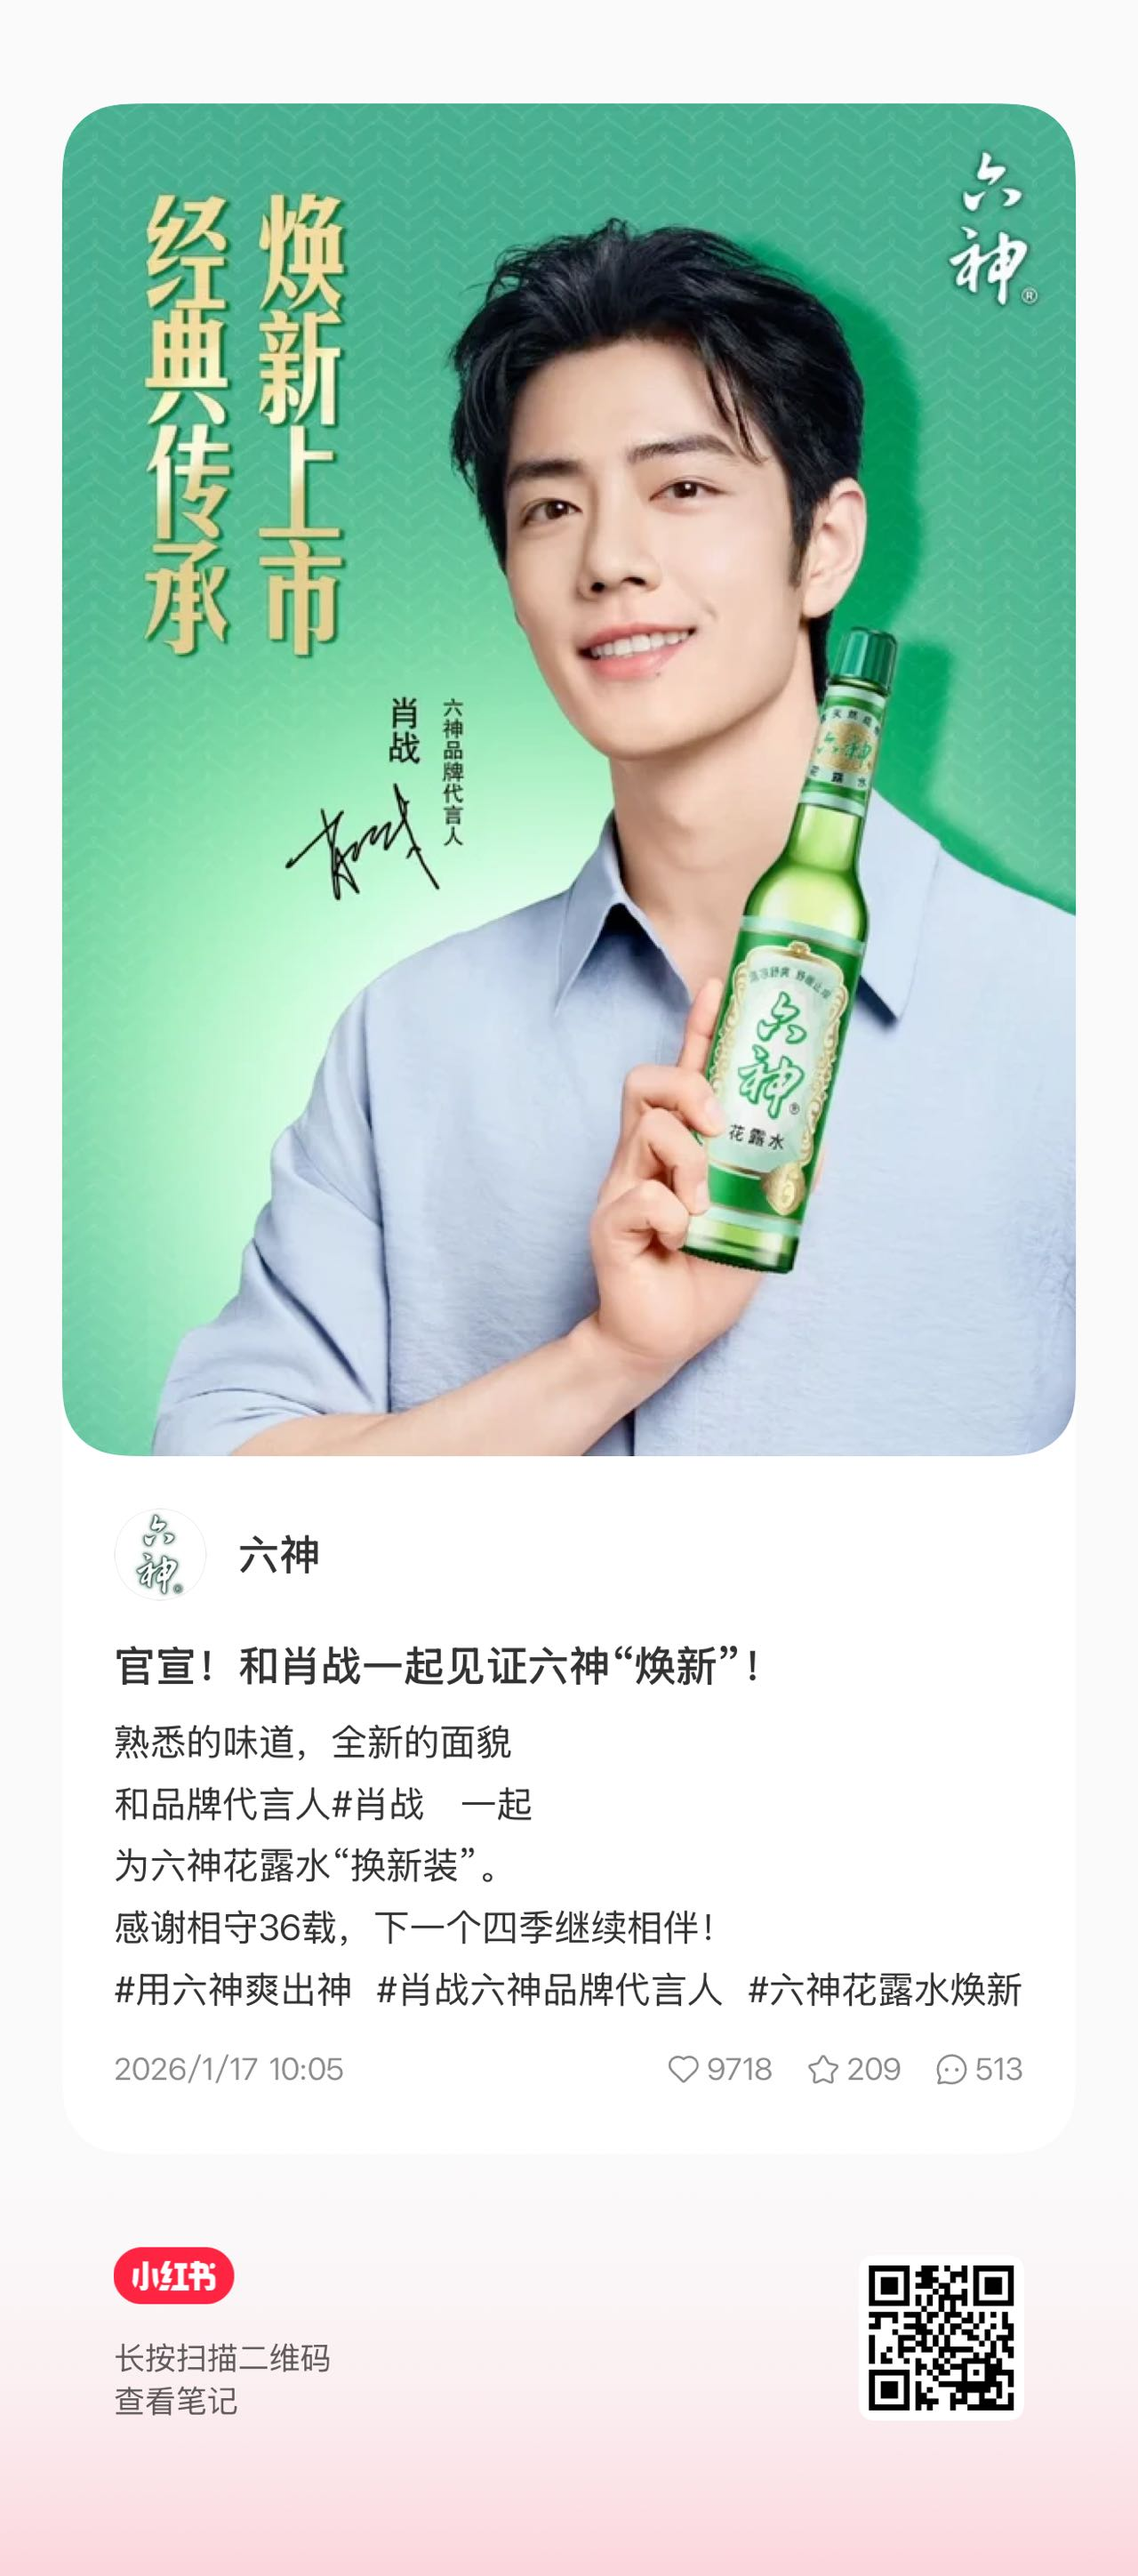
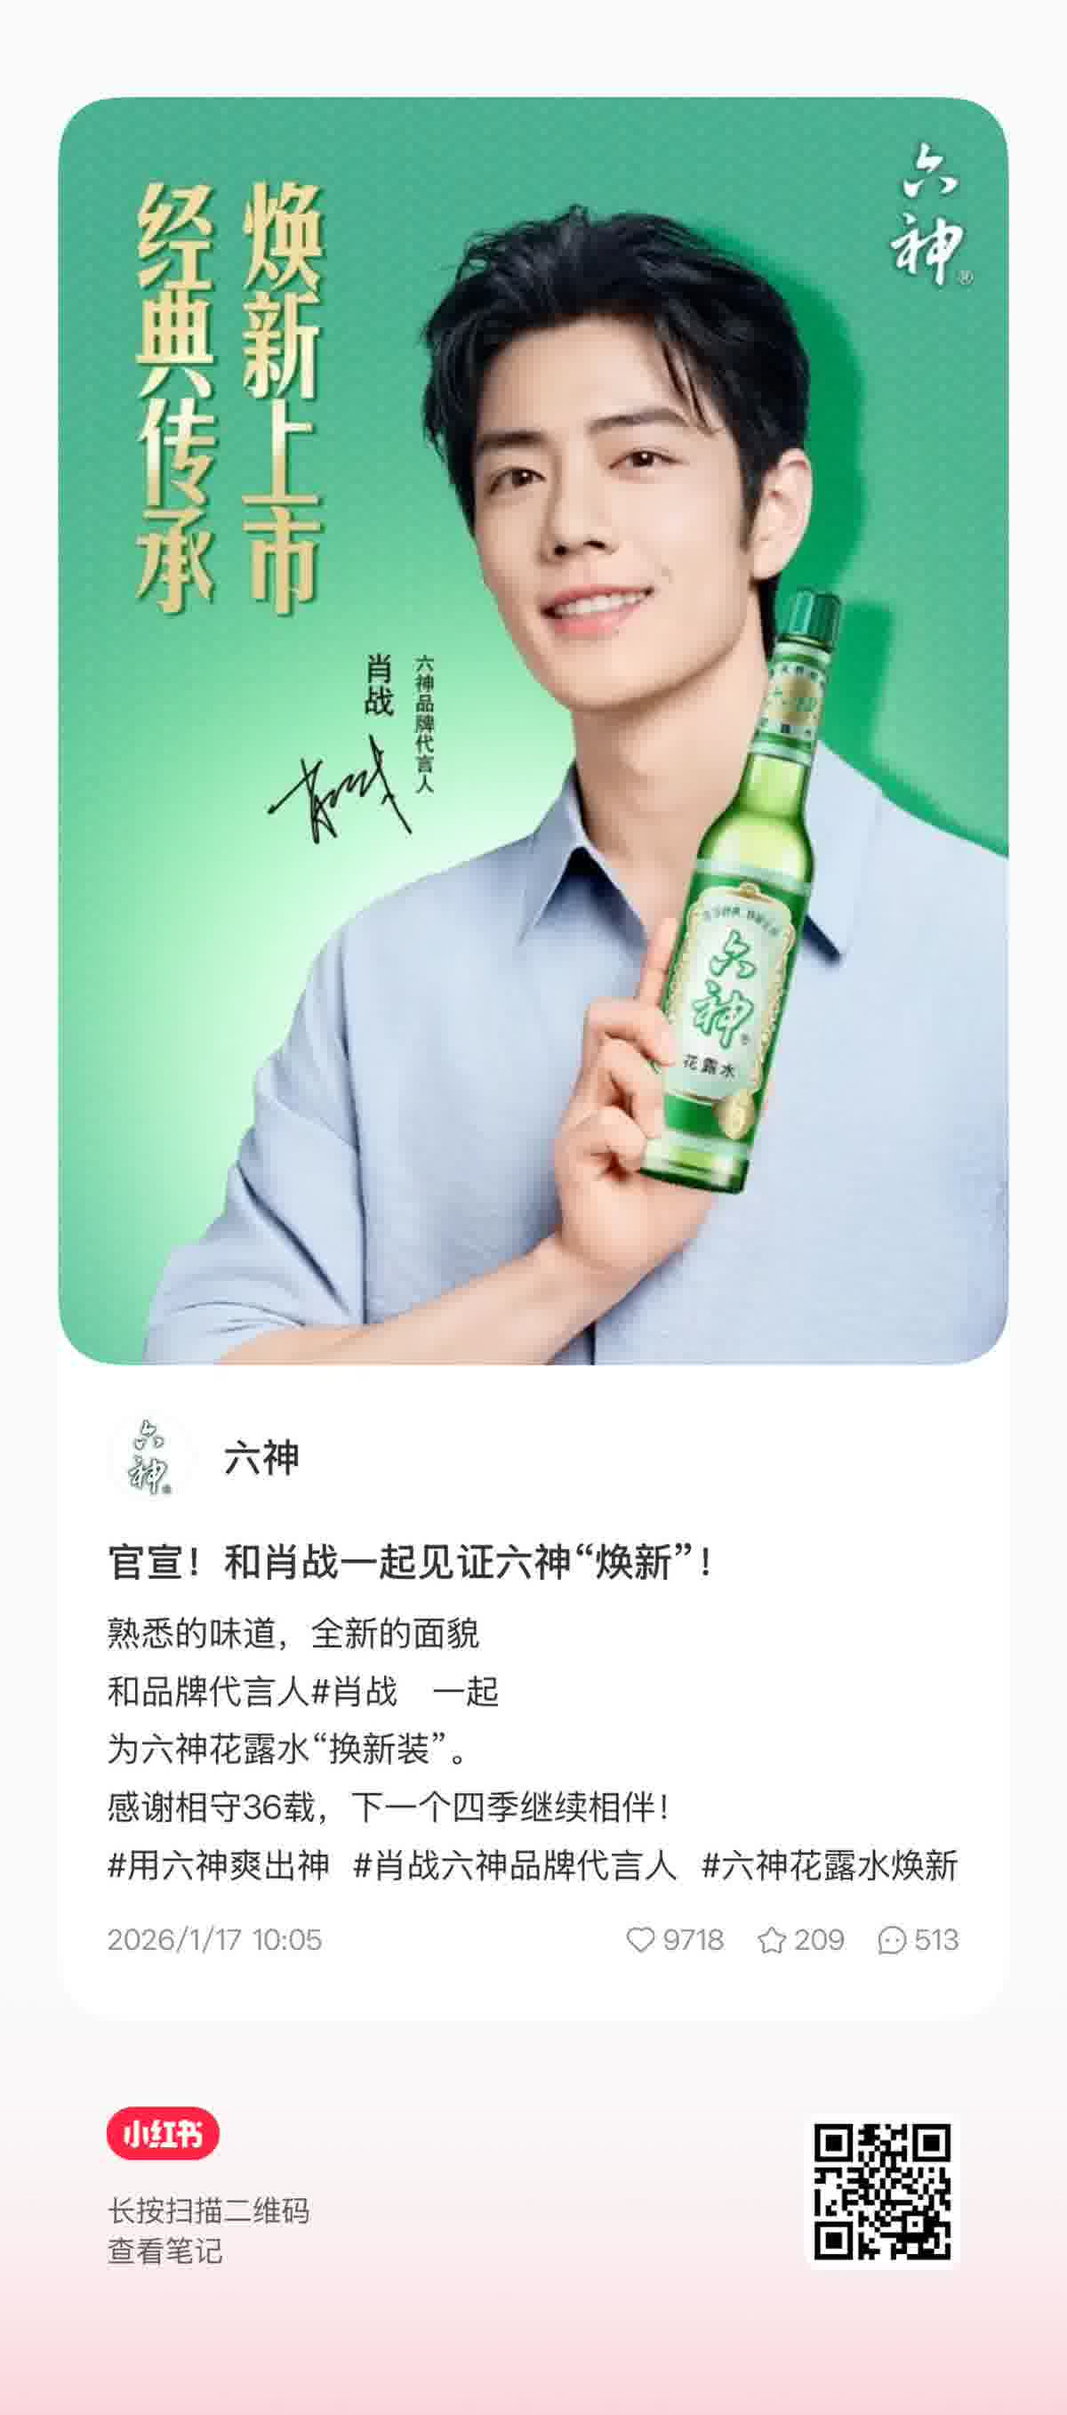
perf: compress liushen page images 34MB -> 1.6MB

diff --git a/projects/liushen-brand-content.html b/projects/liushen-brand-content.html
@@ -125,7 +125,7 @@
             <figure class="liushen-tian-video-card">
               <figcaption><b>田嘉瑞 GWP 创意视频</b><span>创意脚本 / 30S</span></figcaption>
               <div class="liushen-tian-video-row">
-                <video src="/projects/brand-film-direction/liushen-videos/liushen-tianjiarui-gwpv3.m4v#t=0.5" poster="/projects/brand-film-direction/script-previews/gwp/slide-03.png" controls preload="none" playsinline></video>
+                <video src="/projects/brand-film-direction/liushen-videos/liushen-tianjiarui-gwpv3.m4v#t=0.5" poster="/projects/brand-film-direction/script-previews/gwp/slide-03.jpg" controls preload="none" playsinline></video>
                 <div class="liushen-tian-notes">
                   <span>GWP花式露出</span>
                   <span>可爱动画风格搭配多场景转换</span>
@@ -136,7 +136,7 @@
             <figure class="liushen-tian-video-card">
               <figcaption><b>田嘉瑞官宣预热</b><span>新品官宣 / 悬念预热</span></figcaption>
               <div class="liushen-tian-video-row">
-                <video src="/projects/brand-film-direction/liushen-videos/liushen-preheat-op1v11a.m4v#t=0.5" poster="/projects/brand-film-direction/script-previews/preheat/slide-01.png" controls preload="none" playsinline></video>
+                <video src="/projects/brand-film-direction/liushen-videos/liushen-preheat-op1v11a.m4v#t=0.5" poster="/projects/brand-film-direction/script-previews/preheat/slide-01.jpg" controls preload="none" playsinline></video>
                 <div class="liushen-tian-notes">
                   <span>花絮素材二创</span>
                   <span>针对粉丝人群定制视频风格</span>
@@ -152,8 +152,8 @@
                 <small>脚本展示</small>
               </div>
               <div class="liushen-script-slides two">
-                <figure><img src="/projects/brand-film-direction/script-previews/gwp/slide-01.png" alt="田嘉瑞 GWP 创意视频脚本第一页"></figure>
-                <figure><img src="/projects/brand-film-direction/script-previews/gwp/slide-02.png" alt="田嘉瑞 GWP 创意视频脚本第二页"></figure>
+                <figure><img src="/projects/brand-film-direction/script-previews/gwp/slide-01.jpg" alt="田嘉瑞 GWP 创意视频脚本第一页"></figure>
+                <figure><img src="/projects/brand-film-direction/script-previews/gwp/slide-02.jpg" alt="田嘉瑞 GWP 创意视频脚本第二页"></figure>
               </div>
             </div>
           </div>
@@ -173,17 +173,17 @@
           </div>
           <div class="liushen-combo-videos three">
             <figure>
-              <video src="/projects/brand-film-direction/liushen-videos/liushen-added-04.mp4#t=0.5" poster="/projects/brand-film-direction/social-data/gwp-launch.png" controls preload="none" playsinline></video>
+              <video src="/projects/brand-film-direction/liushen-videos/liushen-added-04.mp4#t=0.5" poster="/projects/brand-film-direction/social-data/gwp-launch.jpg" controls preload="none" playsinline></video>
               <figcaption><b>肖战官宣焕新</b><span>小红书官宣内容 / 2026.01.17</span></figcaption>
               <div class="liushen-metrics"><span><b>1.4万</b>点赞</span><span><b>441</b>收藏</span><span><b>760</b>评论</span></div>
             </figure>
             <figure>
-              <video src="/projects/brand-film-direction/liushen-videos/liushen-work-new.mp4#t=0.5" poster="/projects/brand-film-direction/video-posters/liushen-work-new-poster.png" controls preload="none" playsinline></video>
+              <video src="/projects/brand-film-direction/liushen-videos/liushen-work-new.mp4#t=0.5" poster="/projects/brand-film-direction/video-posters/liushen-work-new-poster.jpg" controls preload="none" playsinline></video>
               <figcaption><b>肖战 GWP 周边首发</b><span>小红书首发 / 2026.04.09</span></figcaption>
               <div class="liushen-metrics"><span><b>1.2万</b>点赞</span><span><b>796</b>收藏</span><span><b>1184</b>评论</span></div>
             </figure>
             <figure>
-              <video src="/projects/brand-film-direction/liushen-videos/liushen-work-02.mp4#t=0.5" poster="/projects/brand-film-direction/social-data/nfc-night-light.png" controls preload="none" playsinline></video>
+              <video src="/projects/brand-film-direction/liushen-videos/liushen-work-02.mp4#t=0.5" poster="/projects/brand-film-direction/social-data/nfc-night-light.jpg" controls preload="none" playsinline></video>
               <figcaption><b>NFC 语音小夜灯</b><span>小红书互动内容 / 2026.04.09</span></figcaption>
               <div class="liushen-metrics"><span><b>1.1万</b>点赞</span><span><b>579</b>收藏</span><span><b>636</b>评论</span></div>
             </figure>
@@ -204,21 +204,21 @@
           </div>
           <div class="liushen-combo-videos liushen-offline-layout">
             <figure class="liushen-offline-primary">
-              <video src="/projects/brand-film-direction/liushen-videos/liushen-work-04.mp4#t=0.5" poster="/projects/brand-film-direction/video-posters/liushen-work-04-poster.png" controls preload="none" playsinline></video>
+              <video src="/projects/brand-film-direction/liushen-videos/liushen-work-04.mp4#t=0.5" poster="/projects/brand-film-direction/video-posters/liushen-work-04-poster.jpg" controls preload="none" playsinline></video>
               <figcaption><b>百米刷屏 N 个他</b><span>线下大屏传播 / 2026.04.10</span></figcaption>
               <div class="liushen-metrics"><span><b>6943</b>点赞</span><span><b>252</b>收藏</span><span><b>429</b>评论</span></div>
             </figure>
             <div class="liushen-offline-side">
               <figure class="liushen-offline-item">
                 <div class="liushen-video-copy">
-                  <video src="/projects/brand-film-direction/liushen-videos/liushen-work-03.mp4#t=0.5" poster="/projects/brand-film-direction/video-posters/liushen-work-03-poster.png" controls preload="none" playsinline></video>
+                  <video src="/projects/brand-film-direction/liushen-videos/liushen-work-03.mp4#t=0.5" poster="/projects/brand-film-direction/video-posters/liushen-work-03-poster.jpg" controls preload="none" playsinline></video>
                   <figcaption><b>清爽风暴席卷 25 城</b><span>全国 25 城屏幕传播 / 2026.04.11</span></figcaption>
                 </div>
                 <div class="liushen-metrics liushen-side-metrics"><span><b>6597</b>点赞</span><span><b>267</b>收藏</span><span><b>357</b>评论</span></div>
               </figure>
               <figure class="liushen-offline-item liushen-offline-item-raised">
                 <div class="liushen-video-copy">
-                  <video src="/projects/brand-film-direction/liushen-videos/liushen-work-05.mp4#t=0.5" poster="/projects/brand-film-direction/video-posters/liushen-work-05-poster.png" controls preload="none" playsinline></video>
+                  <video src="/projects/brand-film-direction/liushen-videos/liushen-work-05.mp4#t=0.5" poster="/projects/brand-film-direction/video-posters/liushen-work-05-poster.jpg" controls preload="none" playsinline></video>
                   <figcaption><b>动态环绕，百步联屏</b><span>沉浸式感官风暴 / 2026.04.16</span></figcaption>
                 </div>
                 <div class="liushen-metrics liushen-side-metrics"><span><b>5702</b>点赞</span><span><b>275</b>收藏</span><span><b>484</b>评论</span></div>
@@ -241,16 +241,16 @@
           </div>
           <div class="liushen-product-layout">
             <figure class="liushen-product-video-frame">
-              <video src="/projects/brand-film-direction/liushen-videos/liushen-work-01.mp4#t=0.5" poster="/projects/brand-film-direction/script-previews/shower-gel/slide-03.png" controls preload="none" playsinline></video>
+              <video src="/projects/brand-film-direction/liushen-videos/liushen-work-01.mp4#t=0.5" poster="/projects/brand-film-direction/script-previews/shower-gel/slide-03.jpg" controls preload="none" playsinline></video>
               <figcaption><b>清爽香氛沐浴露升级</b><span>小红书产品内容 / 2026.03.26</span></figcaption>
               <div class="liushen-metrics liushen-video-result"><span><b>284</b>点赞</span><span><b>24</b>收藏</span><span><b>25</b>评论</span></div>
             </figure>
             <div class="liushen-inline-script liushen-product-script">
               <div class="liushen-product-script-label"><b>脚本展示</b></div>
               <div class="liushen-script-slides is-lowres">
-                <figure><img src="/projects/brand-film-direction/script-previews/shower-gel/slide-01.png" alt="山尖定松香氛沐浴露脚本第一页"></figure>
-                <figure><img src="/projects/brand-film-direction/script-previews/shower-gel/slide-02.png" alt="山尖定松香氛沐浴露脚本第二页"></figure>
-                <figure><img src="/projects/brand-film-direction/script-previews/shower-gel/slide-03.png" alt="山尖定松香氛沐浴露脚本第三页"></figure>
+                <figure><img src="/projects/brand-film-direction/script-previews/shower-gel/slide-01.jpg" alt="山尖定松香氛沐浴露脚本第一页"></figure>
+                <figure><img src="/projects/brand-film-direction/script-previews/shower-gel/slide-02.jpg" alt="山尖定松香氛沐浴露脚本第二页"></figure>
+                <figure><img src="/projects/brand-film-direction/script-previews/shower-gel/slide-03.jpg" alt="山尖定松香氛沐浴露脚本第三页"></figure>
               </div>
             </div>
           </div>
@@ -296,7 +296,7 @@
           </div>
           <div class="liushen-combo-videos two">
             <figure>
-              <video src="/projects/brand-film-direction/liushen-videos/liushen-work-extra.mp4#t=0.5" poster="/projects/brand-film-direction/script-previews/hotspot/slide-01.png" controls preload="none" playsinline></video>
+              <video src="/projects/brand-film-direction/liushen-videos/liushen-work-extra.mp4#t=0.5" poster="/projects/brand-film-direction/script-previews/hotspot/slide-01.jpg" controls preload="none" playsinline></video>
               <figcaption><b>我的身材很曼妙</b><span>六神冰凉蛋</span></figcaption>
               <div class="liushen-metrics"><span><b>347</b>点赞</span><span><b>35</b>收藏</span><span><b>59</b>评论</span></div>
             </figure>
@@ -312,8 +312,8 @@
               <h3>我的身材很曼妙</h3>
             </div>
             <div class="liushen-script-slides two">
-              <figure><img src="/projects/brand-film-direction/script-previews/hotspot/slide-01.png" alt="我的身材很曼妙脚本第一页"></figure>
-              <figure><img src="/projects/brand-film-direction/script-previews/hotspot/slide-02.png" alt="我的身材很曼妙脚本第二页"></figure>
+              <figure><img src="/projects/brand-film-direction/script-previews/hotspot/slide-01.jpg" alt="我的身材很曼妙脚本第一页"></figure>
+              <figure><img src="/projects/brand-film-direction/script-previews/hotspot/slide-02.jpg" alt="我的身材很曼妙脚本第二页"></figure>
             </div>
           </div>
         </article>
